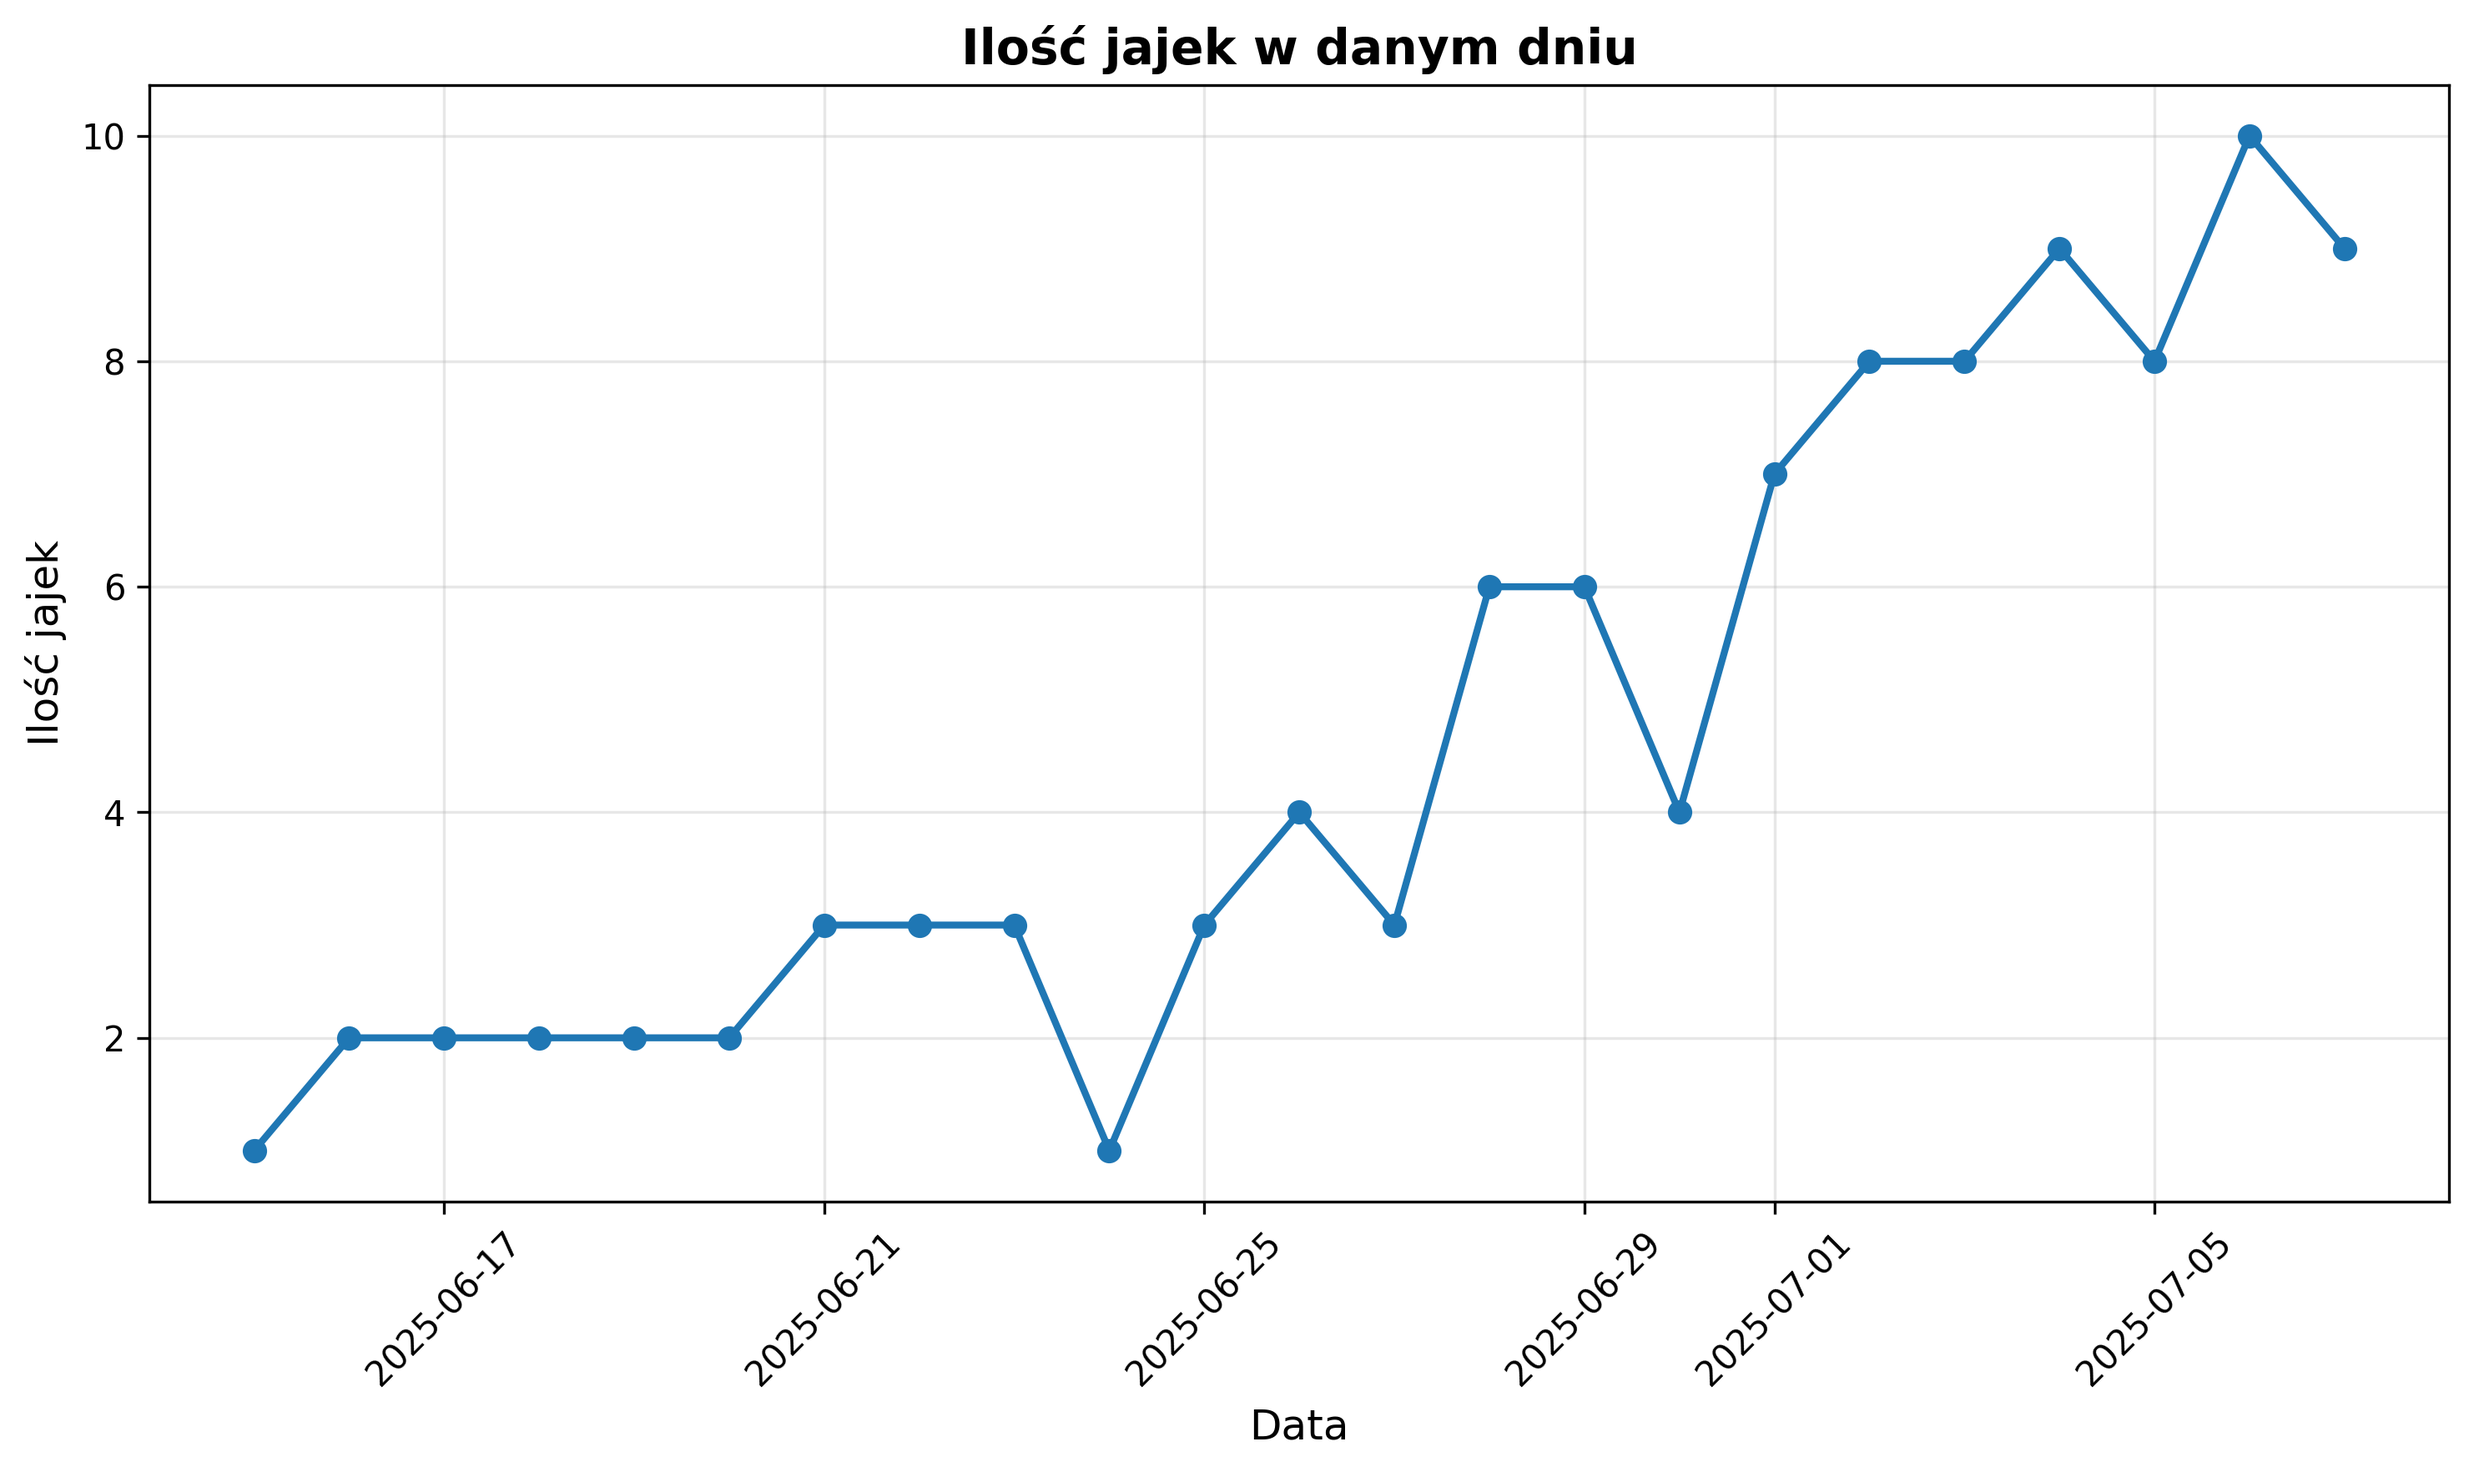
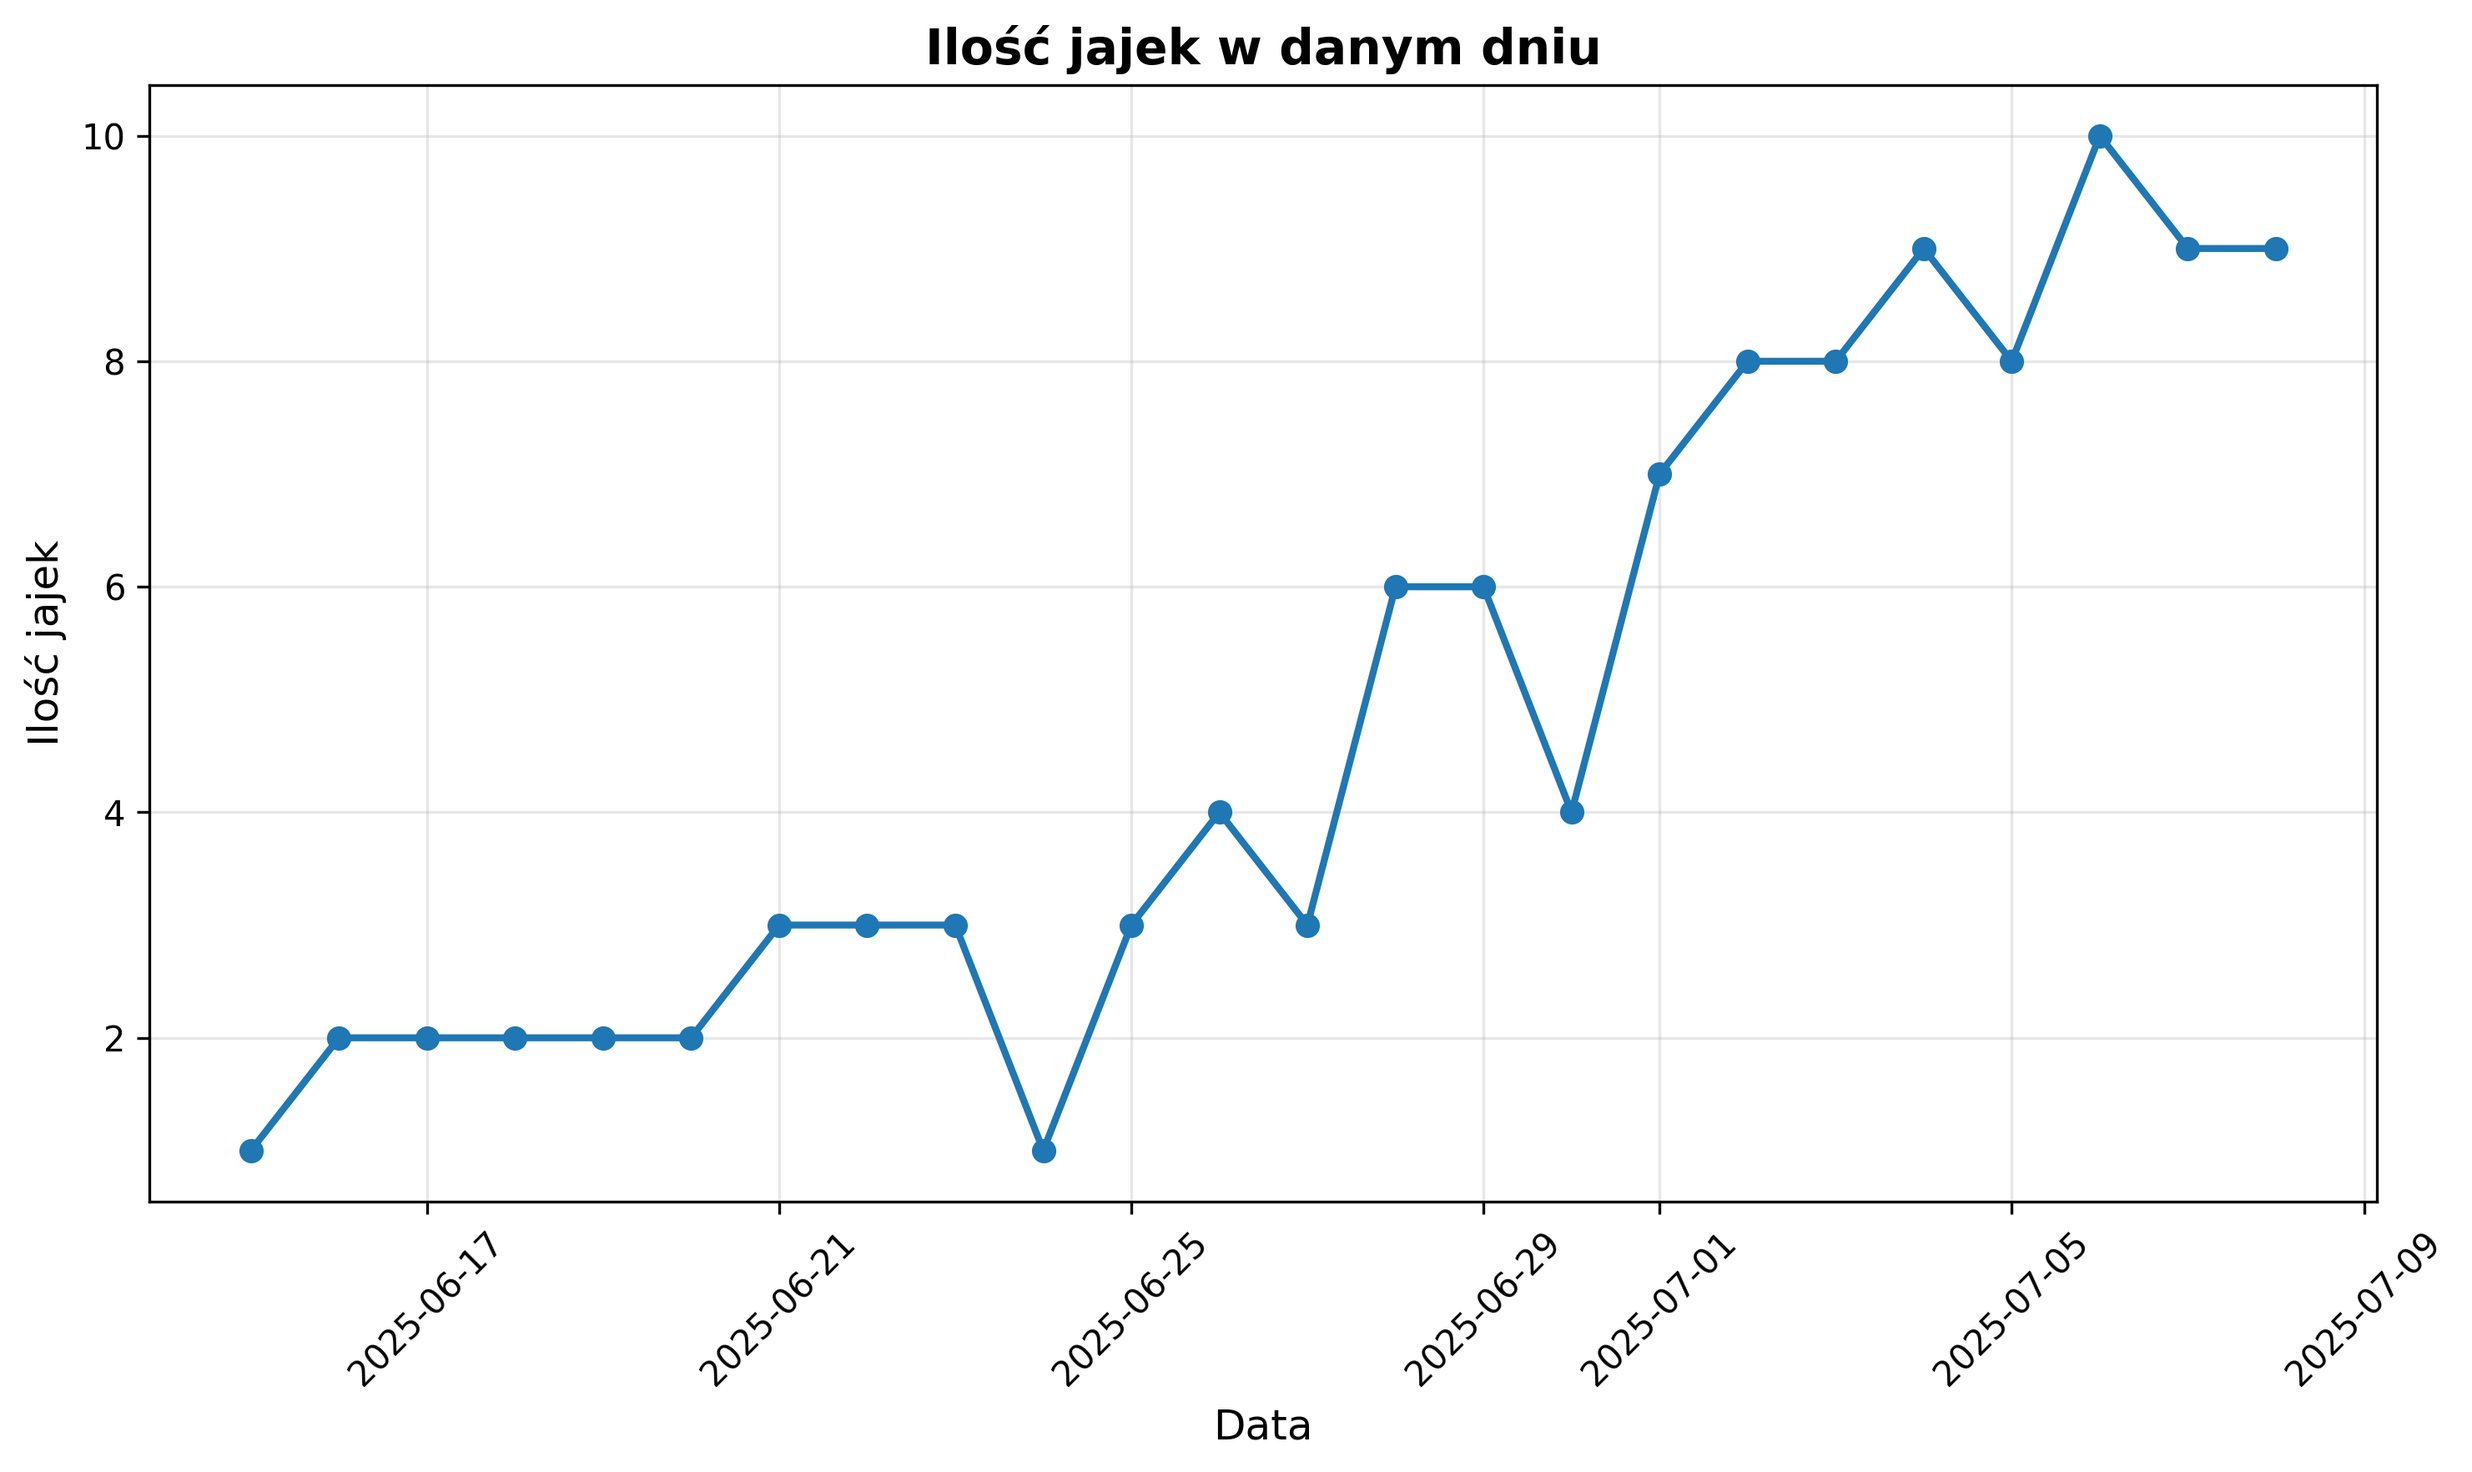
Chart update

diff --git a/jajka.html b/jajka.html
@@ -7,7 +7,7 @@
 </head>
 <body>
     <div style="font-size: 20px; font-style: italic;">Ostatnia aktualizacja:</div>
-    <div style="font-size: 18px; font-style: italic; color: red;">2025-07-07 12:34:42</div>
+    <div style="font-size: 18px; font-style: italic; color: red;">2025-07-08 15:34:45</div>
     <img src="img/chart.png" alt="" style="width: 100vw; height: 100vh; object-fit: contain; display: block; margin: 0 auto; position: absolute; top: 50%; left: 50%; transform: translate(-50%, -50%);">
 </body>
 </html>
